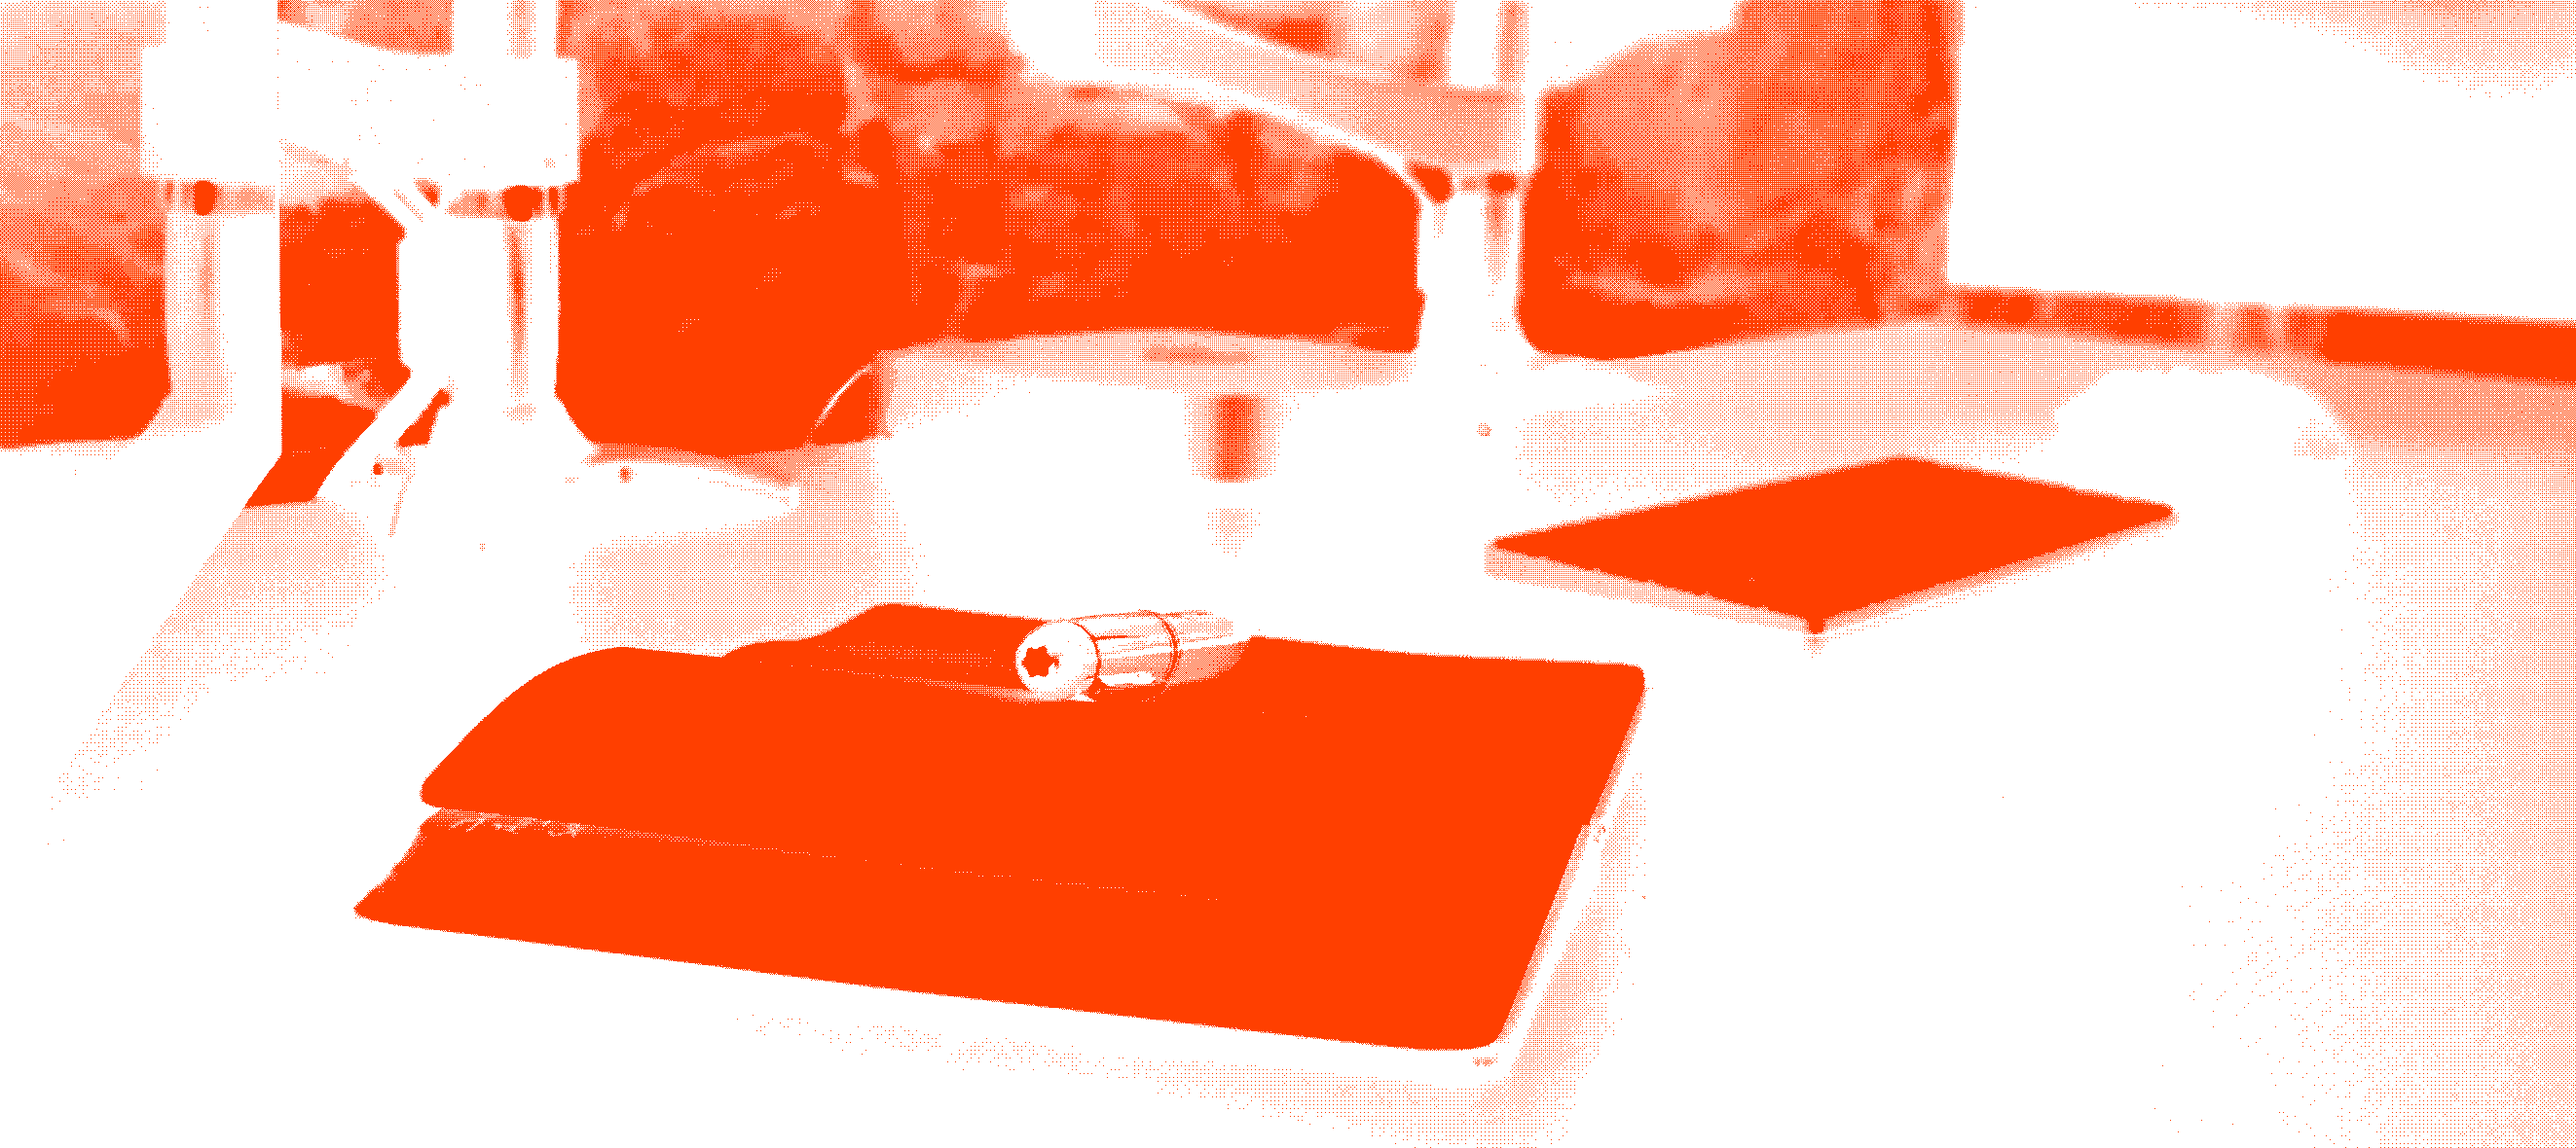
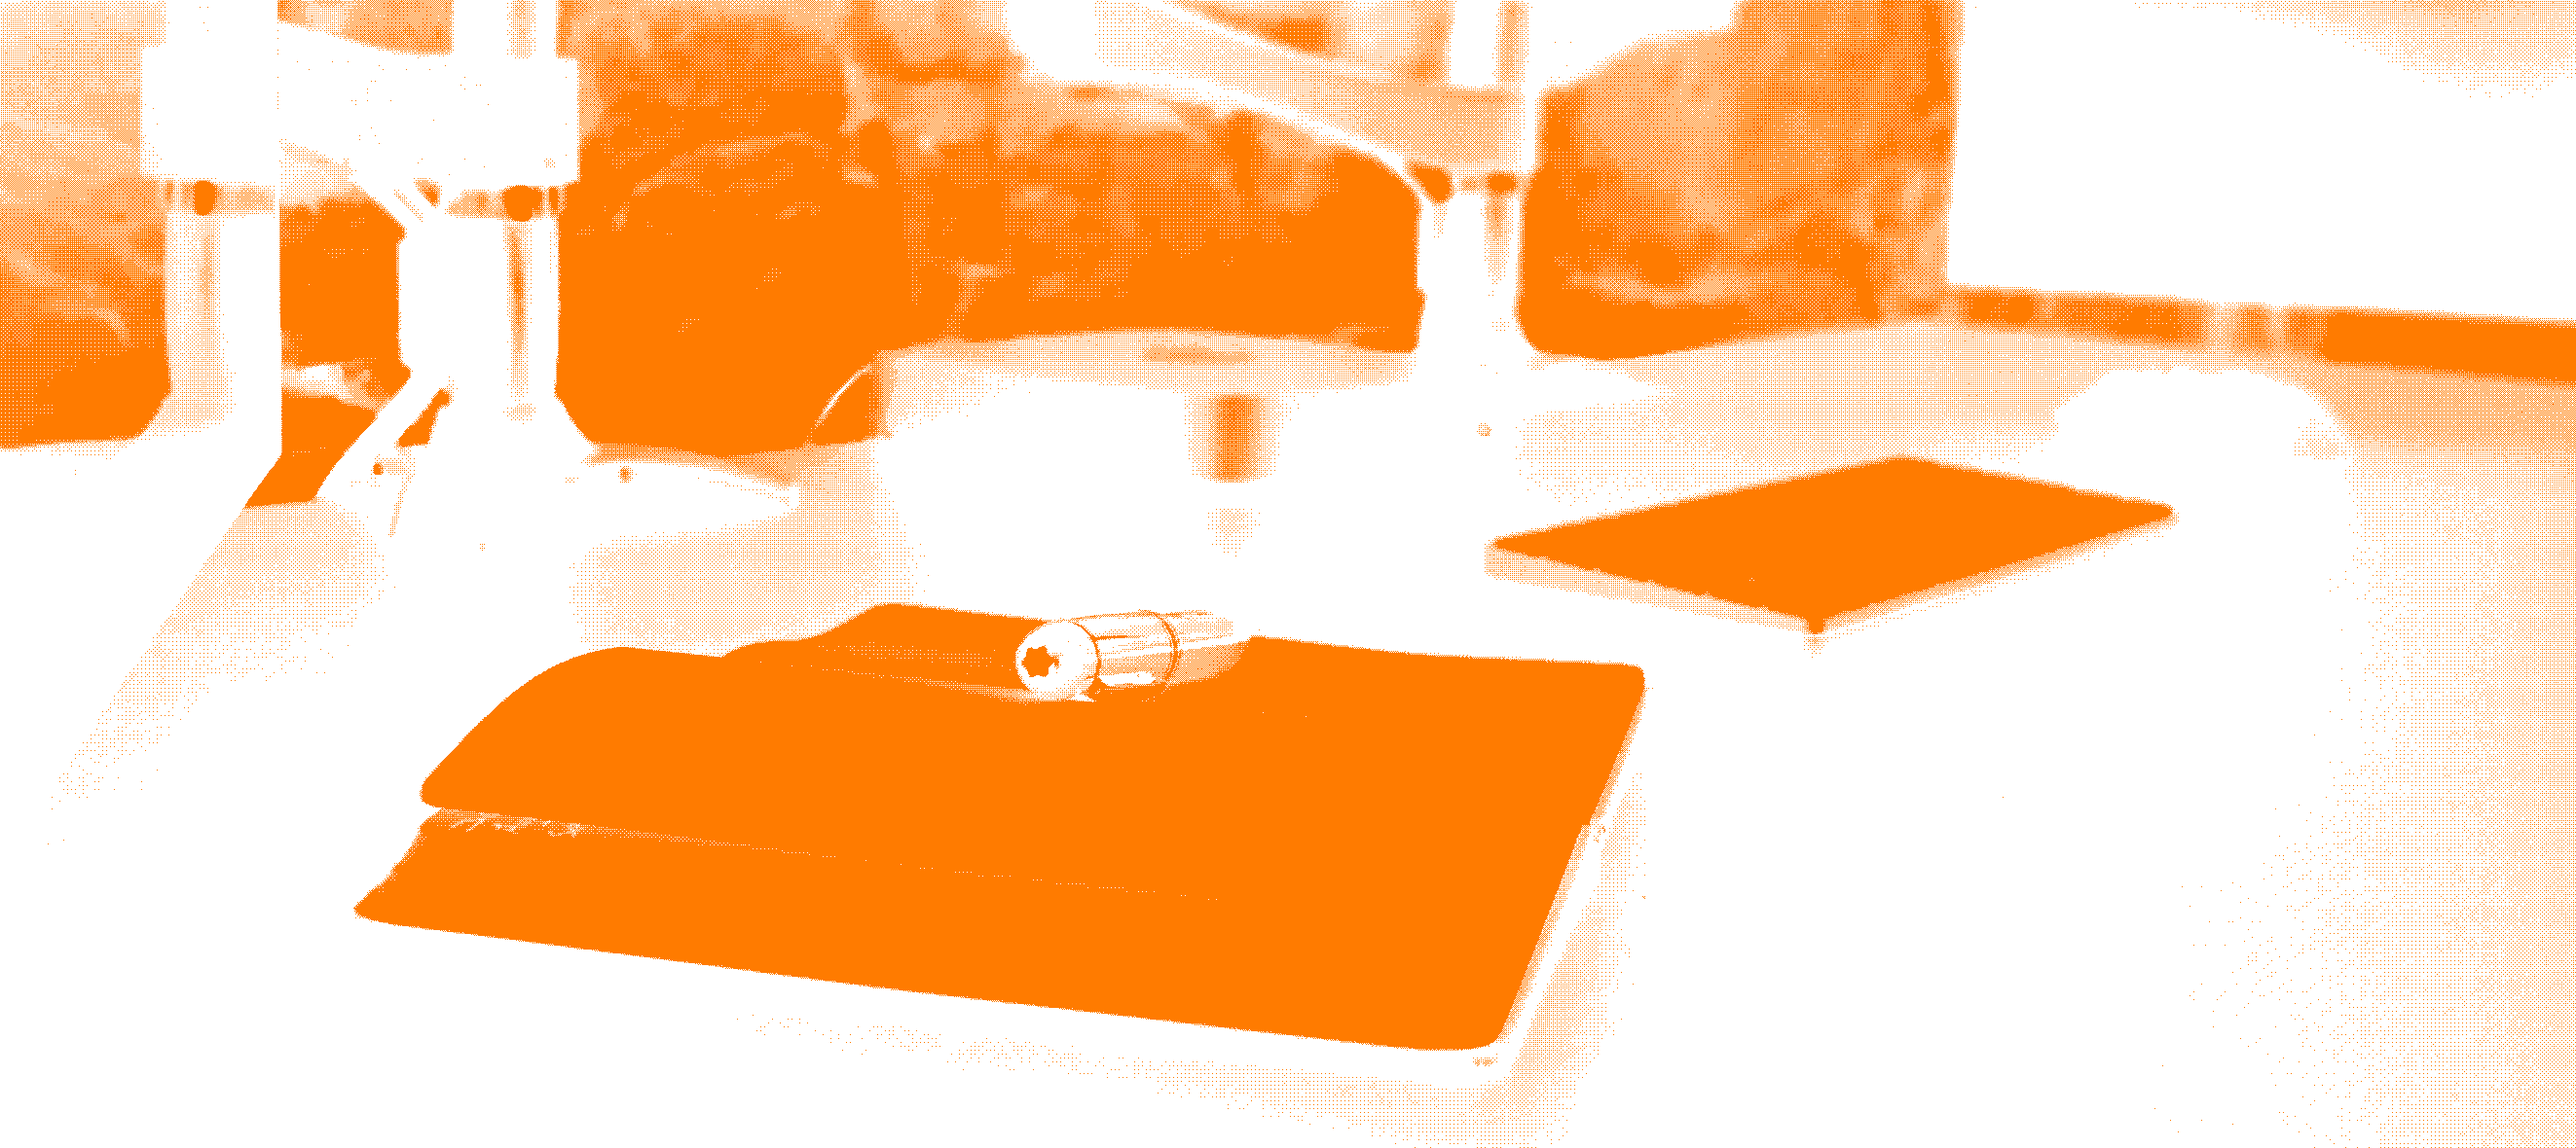
Switch to a lighter orange colour, darker background and text color
Now that the site is going to be going all in on dark mode I can go for the original orange colour I had in mind: #ff7b00. It is the colour I used in the Bespoke Dashboards logo. I recall having given some thought to that colour so I am going to use it for now. The previous orange colour was more like a dark red/orange.

Made new versions of the dithered images. I could have used a CSS `filter: hue-rotate(25deg)` or something like that to shift the colour of the existing images. But since I have not converted that many images yet I think a better way forward is to just use #ff7b00 as the colour and redo the images.

Made the background slightly darker and made the white text slightly more grey. Think it looks a bit better.

diff --git a/css/jonrh.css b/css/jonrh.css
@@ -10,13 +10,12 @@ html {
 body {
     /* Make all text justified on the page. This might be too broad, p and li might be enough. */
     text-align: justify;
-    background: #222;
-    color: #ddd;
+    background: #191919;
+    color: #c8c8c8;
 }
 
 a {
-    color: #ff3f00; /* Original value with 3.51 contrast ratio with white background */
-    /*color: #de3700;*/ /* Value used in light mode */
+    color: #ff7b00;
 }
 
 h1, h2, h3, h4, h5, h6 {
